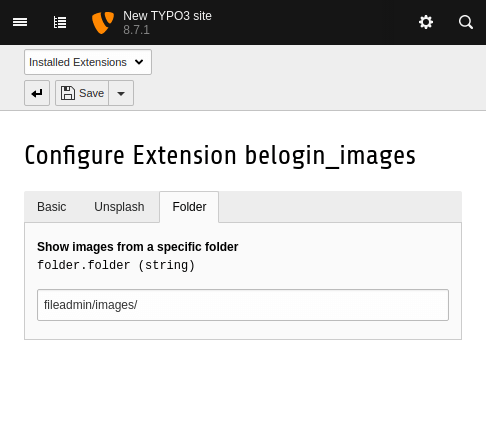
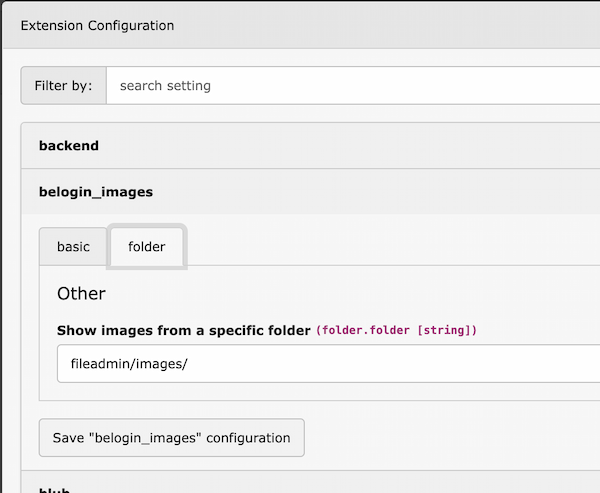
[TASK] Update readme and Screenshots

Changed region(s): [[0.0, 0.0, 1.0, 1.0], [0.3395, 0.461, 0.4321, 0.5225], [0.8951, 0.7376, 0.9259, 0.7683]]

diff --git a/README.md b/README.md
@@ -12,13 +12,10 @@ then take a Image Provider.
 
 ## Configuration
 
-You can choose between Images from [Google ChromeCast](https://github.com/dconnolly/chromecast-backgrounds/), images from [Unsplash](https://source.unsplash.com/) or you set a folder on your Server with images.
+You can choose between Images from [Google ChromeCast](https://github.com/dconnolly/chromecast-backgrounds/), images from [Bing's photo of the day](https://www.bing.com/) or you can set a folder on your Server with images.
 
 ![configuration1](https://raw.githubusercontent.com/SvenJuergens/belogin_images/main/Documentation/configuration1.png)
 
-If you want to use Unsplash you can build an URL on [https://source.unsplash.com/)](https://source.unsplash.com/)
-
-![configuration2](https://raw.githubusercontent.com/SvenJuergens/belogin_images/main/Documentation/configuration2.png)
 
 On tab "Folder" set a path to a folder with Images, from which a random one is displayed.
 
@@ -30,3 +27,4 @@ Use `IPmask` in ExtensionManager settings to restrict the output to a specific I
 ## Example Output
 ![example1](https://raw.githubusercontent.com/SvenJuergens/belogin_images/main/Documentation/example1.jpg)
 ![example2](https://raw.githubusercontent.com/SvenJuergens/belogin_images/main/Documentation/example2.jpg)
+![example3](https://raw.githubusercontent.com/SvenJuergens/belogin_images/main/Documentation/example3.jpg)
